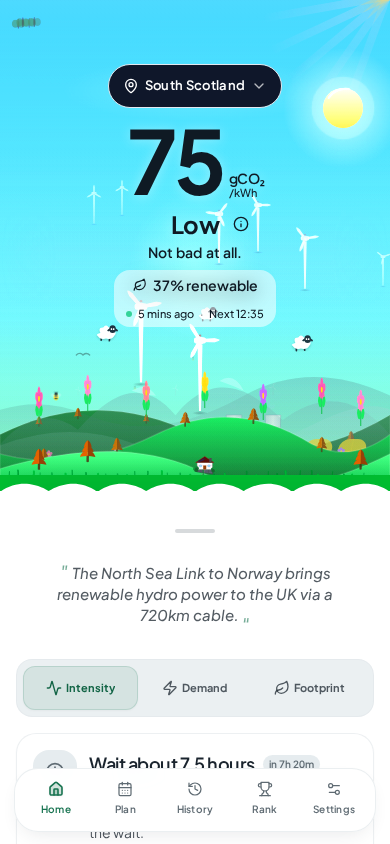
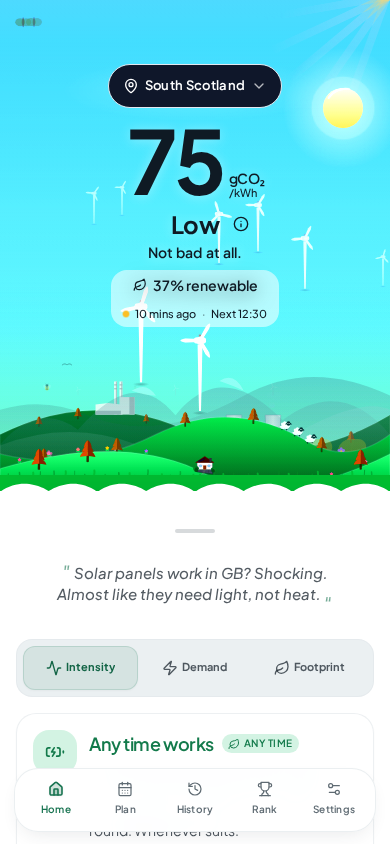
fix(scene): garden flowers at half scale, standing on the front ridge (#221)

diff --git a/src/components/scene/SceneTemporalLife.tsx b/src/components/scene/SceneTemporalLife.tsx
@@ -1,6 +1,8 @@
 import { AnimatePresence, motion } from 'framer-motion';
 import type { SceneGrowthStage } from '@/hooks/useSceneGrowth';
 import { Flowers } from './Flowers';
+import { gardenFlowerPositions, GARDEN_FLOWER_SCALE } from '@/lib/gardenFlowers';
+import { SCENE_SILHOUETTE_ASPECT } from '@/lib/sceneScaleBible';
 import { Butterfly } from './Butterfly';
 import { useReducedMotion } from '@/hooks/useReducedMotion';
 
@@ -26,28 +28,7 @@ export function SceneTemporalLife({
   const shouldReduceMotion = useReducedMotion();
   if (stage < 1 || isCity) return null;
 
-  const flowerPositions =
-    stage >= 4
-      ? [
-          { x: 40, y: 122 },
-          { x: 90, y: 118 },
-          { x: 150, y: 120 },
-          { x: 210, y: 117 },
-          { x: 270, y: 121 },
-          { x: 330, y: 119 },
-          { x: 370, y: 123 },
-        ]
-      : stage >= 2
-        ? [
-            { x: 60, y: 121 },
-            { x: 140, y: 118 },
-            { x: 230, y: 120 },
-            { x: 320, y: 119 },
-          ]
-        : [
-            { x: 100, y: 120 },
-            { x: 260, y: 118 },
-          ];
+  const flowerPositions = gardenFlowerPositions(stage);
 
   return (
     <AnimatePresence>
@@ -71,14 +52,17 @@ export function SceneTemporalLife({
         )}
 
         {isDaytime && (
-          <div className="absolute bottom-0 left-0 right-0 h-[75%]">
+          <div className="absolute bottom-0 left-0 right-0 h-[100%]">
+            {/* #221: same box, viewBox and meet fit as the front hill, so the stems
+                stand on its ridge at every aspect (no stretching). */}
             <svg
               viewBox="0 30 400 120"
               className="w-full h-full"
-              preserveAspectRatio="none"
+              preserveAspectRatio={SCENE_SILHOUETTE_ASPECT}
               aria-hidden="true"
+              data-garden-flowers
             >
-              <Flowers positions={flowerPositions} />
+              <Flowers positions={flowerPositions} scale={GARDEN_FLOWER_SCALE} />
             </svg>
           </div>
         )}

diff --git a/src/components/scene/Flowers.tsx b/src/components/scene/Flowers.tsx
@@ -2,9 +2,14 @@ import { motion } from 'framer-motion';
 
 interface FlowersProps {
   positions: { x: number; y: number }[]; // SVG coordinates for flower positions
+  /** Uniform scale about the stem foot (1 = the original bee-flower size). */
+  scale?: number;
 }
 
-export function Flowers({ positions }: FlowersProps) {
+/** Stem length in flower units: the foot sits this far below the flower head. */
+export const FLOWER_STEM = 8;
+
+export function Flowers({ positions, scale = 1 }: FlowersProps) {
   // Flowers for bees to visit
   // Grounded at landscape level
 
@@ -16,14 +21,18 @@ export function Flowers({ positions }: FlowersProps) {
         const color = flowerColors[i % flowerColors.length];
 
         return (
-          <g key={i} transform={`translate(${pos.x}, ${pos.y})`}>
+          <g
+            key={i}
+            data-flower
+            transform={`translate(${pos.x}, ${pos.y})${scale !== 1 ? ` scale(${scale})` : ''}`}
+          >
             <motion.g
               initial={{ scale: 0, opacity: 0 }}
               animate={{ scale: 1, opacity: 1 }}
               transition={{ delay: i * 0.2, duration: 0.5 }}
             >
               {/* Stem */}
-              <line x1="0" y1="0" x2="0" y2="8" stroke="#16a34a" strokeWidth="1" />
+              <line x1="0" y1="0" x2="0" y2={FLOWER_STEM} stroke="#16a34a" strokeWidth="1" />
 
               {/* Petals - smaller for better proportions */}
               {[0, 72, 144, 216, 288].map((angle) => (

diff --git a/src/lib/gardenFlowers.ts b/src/lib/gardenFlowers.ts
@@ -1,0 +1,27 @@
+import { getHillRidgeY } from '@/lib/sceneUtils';
+
+/** #221: garden flowers at about half the bee-flower size. */
+export const GARDEN_FLOWER_SCALE = 0.5;
+/** Stem length in flower units (matches Flowers' FLOWER_STEM). */
+const STEM = 8;
+/** Sink the stem foot this far (scene units) into the ridge so it never floats. */
+export const GARDEN_FLOWER_SINK = 0.5;
+
+/**
+ * Where the flowers stand (scene x). The front ridge drops below the scene floor
+ * between about x 230 and 325, so no flower stands there.
+ */
+const XS: Record<'few' | 'some' | 'many', number[]> = {
+  few: [90, 350],
+  some: [40, 90, 150, 350],
+  many: [20, 50, 80, 110, 150, 340, 375],
+};
+
+/** Flower head positions with each stem foot on the front-hill ridge. */
+export function gardenFlowerPositions(stage: number): { x: number; y: number }[] {
+  const xs = stage >= 4 ? XS.many : stage >= 2 ? XS.some : XS.few;
+  return xs.map((x) => ({
+    x,
+    y: getHillRidgeY('front', x) - STEM * GARDEN_FLOWER_SCALE + GARDEN_FLOWER_SINK,
+  }));
+}

diff --git a/src/lib/gardenFlowers.test.ts b/src/lib/gardenFlowers.test.ts
@@ -1,0 +1,30 @@
+import { describe, expect, it } from 'vitest';
+import { getHillRidgeY } from '@/lib/sceneUtils';
+import {
+  GARDEN_FLOWER_SCALE,
+  GARDEN_FLOWER_SINK,
+  gardenFlowerPositions,
+} from '@/lib/gardenFlowers';
+
+describe('#221 garden flowers', () => {
+  it('are about half scale', () => {
+    expect(GARDEN_FLOWER_SCALE).toBe(0.5);
+  });
+
+  for (const stage of [1, 2, 4]) {
+    it(`stage ${stage}: every stem foot sits on the front ridge`, () => {
+      for (const p of gardenFlowerPositions(stage)) {
+        const foot = p.y + 8 * GARDEN_FLOWER_SCALE;
+        expect(foot - getHillRidgeY('front', p.x)).toBeCloseTo(GARDEN_FLOWER_SINK, 5);
+        // The flower head stays inside the scene (viewBox bottom is y 150).
+        expect(p.y).toBeLessThan(146);
+      }
+    });
+  }
+
+  it('grows in number with the stage', () => {
+    expect(gardenFlowerPositions(1)).toHaveLength(2);
+    expect(gardenFlowerPositions(2)).toHaveLength(4);
+    expect(gardenFlowerPositions(4)).toHaveLength(7);
+  });
+});

diff --git a/e2e/bh143-garden-shots.spec.ts b/e2e/bh143-garden-shots.spec.ts
@@ -15,6 +15,7 @@ const AT = '2026-10-29T12:10:00Z';
 const PHONES = [
   { width: 390, height: 844 },
   { width: 320, height: 568 },
+  { width: 720, height: 540 },
 ];
 const WEEKS = {
   lush: () => 60,
@@ -58,7 +59,7 @@ for (const vp of PHONES) {
     test(`garden ${week} ${vp.width}x${vp.height}`, async ({ page, context }) => {
       await page.setViewportSize(vp);
       await pinClocks(page, AT);
-      await installMocks(context, { intensity: 75, index: 'low' });
+      await installMocks(context, { intensity: 75, index: 'low', flatSeries: true });
       await mockGardenWindow(context, perDay);
       await context.addInitScript(seedStorage());
       // The garden grows in the countryside scene (the city has no garden layer).
